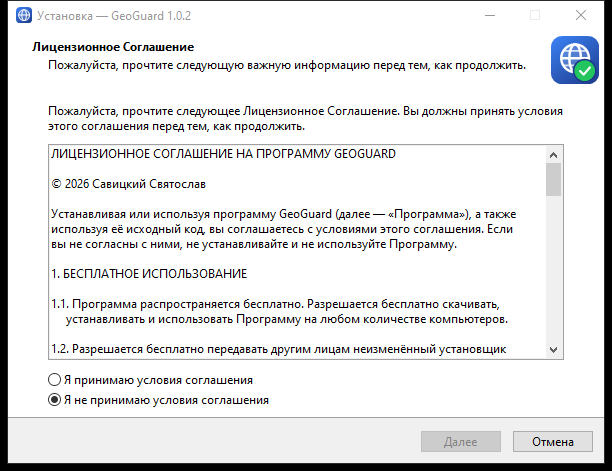
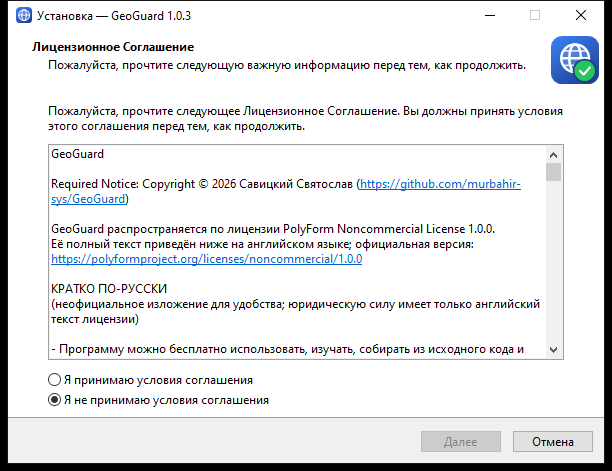
GeoGuard 1.0.3: лицензия PolyForm Noncommercial 1.0.0
- LICENSE.txt: официальный текст PolyForm Noncommercial 1.0.0, строка Required Notice
  и краткое изложение по-русски.
- THIRD-PARTY-NOTICES.txt: сторонние компоненты и сервисы, лицензия MIT среды .NET;
  файл устанавливается вместе с программой.
- README и окно «О программе»: условия новой лицензии.

Changed region(s): [[0.0621, 0.2972, 0.9314, 0.7728], [0.0621, 0.0, 0.3105, 0.0594], [0.9314, 0.0297, 0.9624, 0.0594]]

diff --git a/GeoGuard/AboutForm.cs b/GeoGuard/AboutForm.cs
@@ -43,7 +43,7 @@ internal sealed class AboutForm : Form
             Font = Theme.Base, ForeColor = Theme.Text, AutoSize = true,
             MaximumSize = new Size(Inner, 0), Margin = new Padding(0, 0, 0, 10),
         });
-        about.Flow.Controls.Add(Theme.Hint($"{AppInfo.Copyright}. Распространяется бесплатно, исходный код открыт для проверки; условия — в LICENSE.txt в папке программы.", Inner, 4));
+        about.Flow.Controls.Add(Theme.Hint($"{AppInfo.Copyright}. Бесплатно для некоммерческого использования (PolyForm Noncommercial 1.0.0, см. LICENSE.txt).", Inner, 4));
         var source = new LinkLabel
         {
             Text = "Исходный код: " + AppInfo.RepositoryUrl.Replace("https://", ""),
